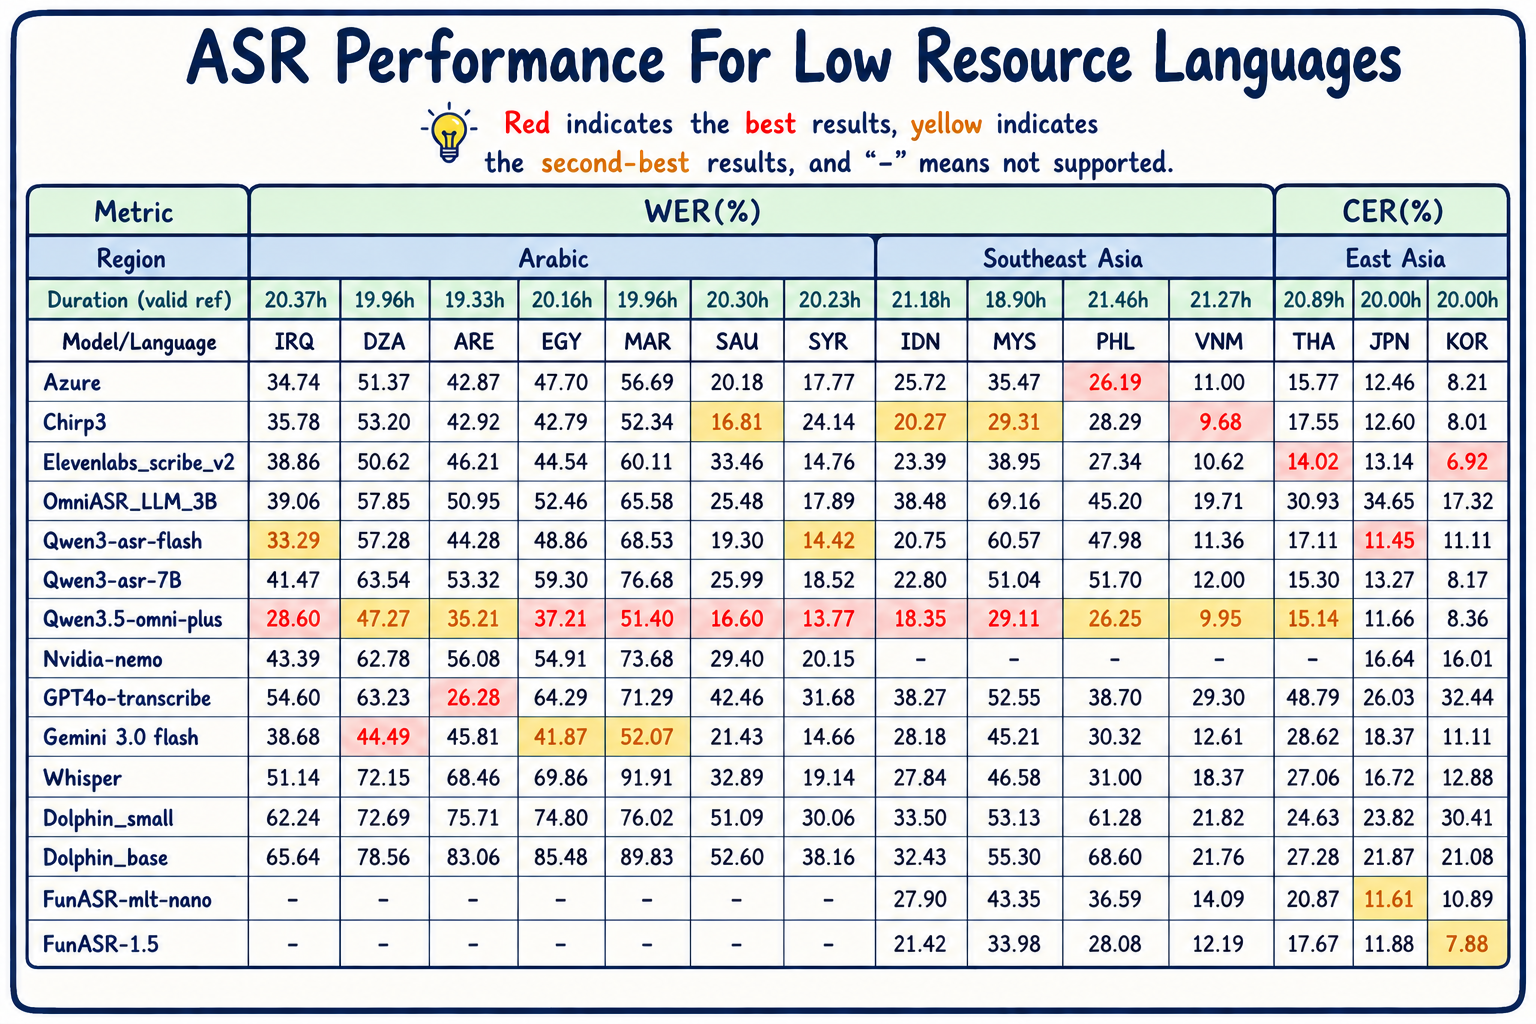
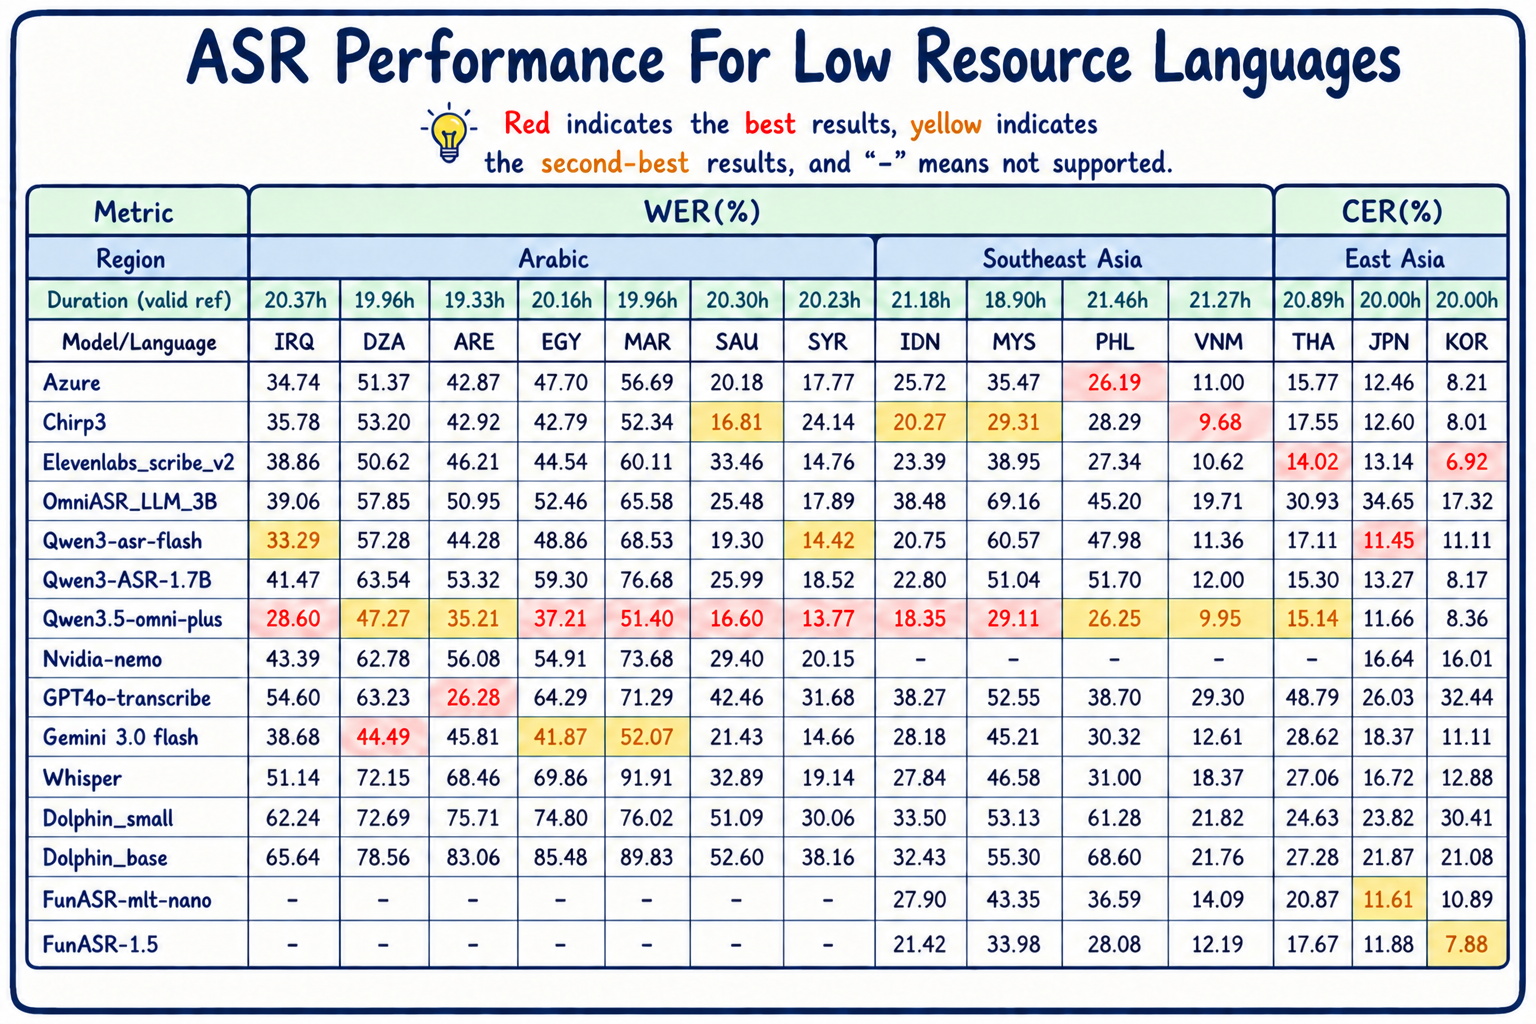
docs: remove Segments badge, change PR to Issue for contributions

diff --git a/README.md b/README.md
@@ -11,7 +11,6 @@
 <p align="center">
   <img src="https://img.shields.io/badge/Languages-14+-blue" alt="Languages">
   <img src="https://img.shields.io/badge/Duration-280%2Bh-green" alt="Duration">
-  <img src="https://img.shields.io/badge/Segments-260K+-orange" alt="Segments">
   <img src="https://img.shields.io/badge/Models-16+-red" alt="Models">
   <img src="https://img.shields.io/badge/License-Non--Commercial-lightgrey" alt="License">
 </p>
@@ -34,7 +33,7 @@
 
 - 🔍 Review the normalization rules in `text_norm/{LANG}.py`
 - 🐛 Report issues with incorrect normalization
-- 🔧 Submit PRs to improve text normalization for your language
+- � Open an [Issue](https://github.com/AlexTYJ/GigaSpeechBench/issues) to suggest improvements for your language
 
 We also welcome:
 - 📊 New model evaluation results (use `scripts/save_results.py`)

diff --git a/README_zh.md b/README_zh.md
@@ -11,7 +11,6 @@
 <p align="center">
   <img src="https://img.shields.io/badge/语言-14+-blue" alt="Languages">
   <img src="https://img.shields.io/badge/时长-280%2Bh-green" alt="Duration">
-  <img src="https://img.shields.io/badge/片段-260K+-orange" alt="Segments">
   <img src="https://img.shields.io/badge/模型-16+-red" alt="Models">
   <img src="https://img.shields.io/badge/许可-非商业-lightgrey" alt="License">
 </p>
@@ -34,7 +33,7 @@
 
 - 🔍 审查 `text_norm/{LANG}.py` 中的归一化规则
 - 🐛 反馈不正确的归一化问题
-- 🔧 提交 PR 改进你母语的文本归一化
+- � 在 [Issue](https://github.com/AlexTYJ/GigaSpeechBench/issues) 中提出你母语的改进建议
 
 我们同样欢迎：
 - 📊 新模型评测结果（使用 `scripts/save_results.py`）
